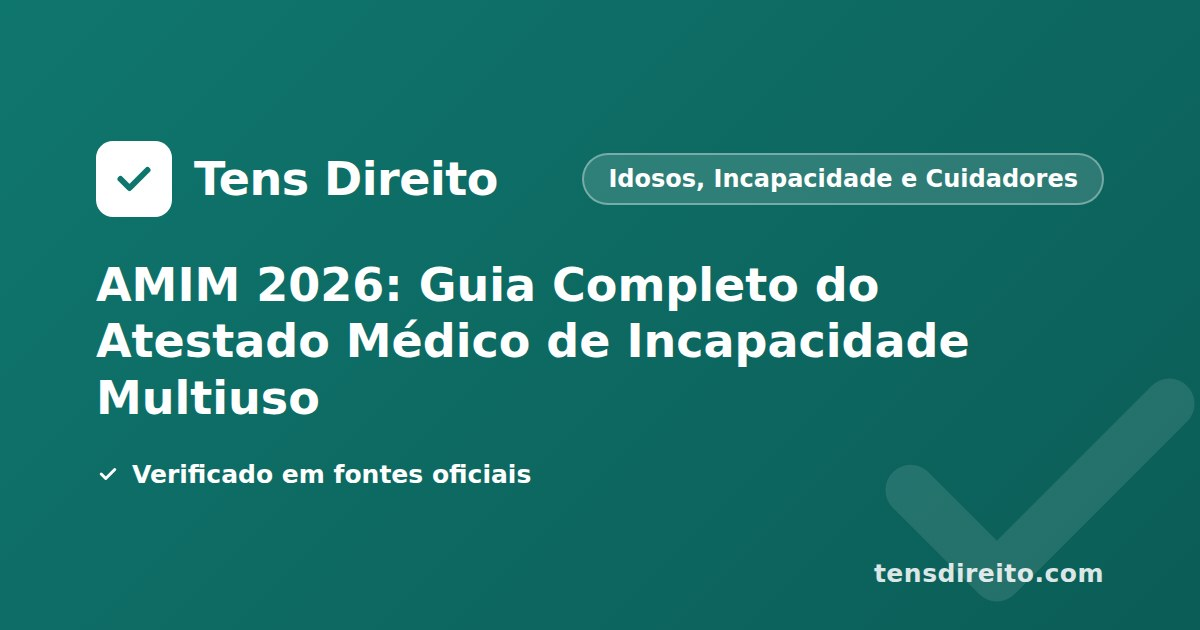
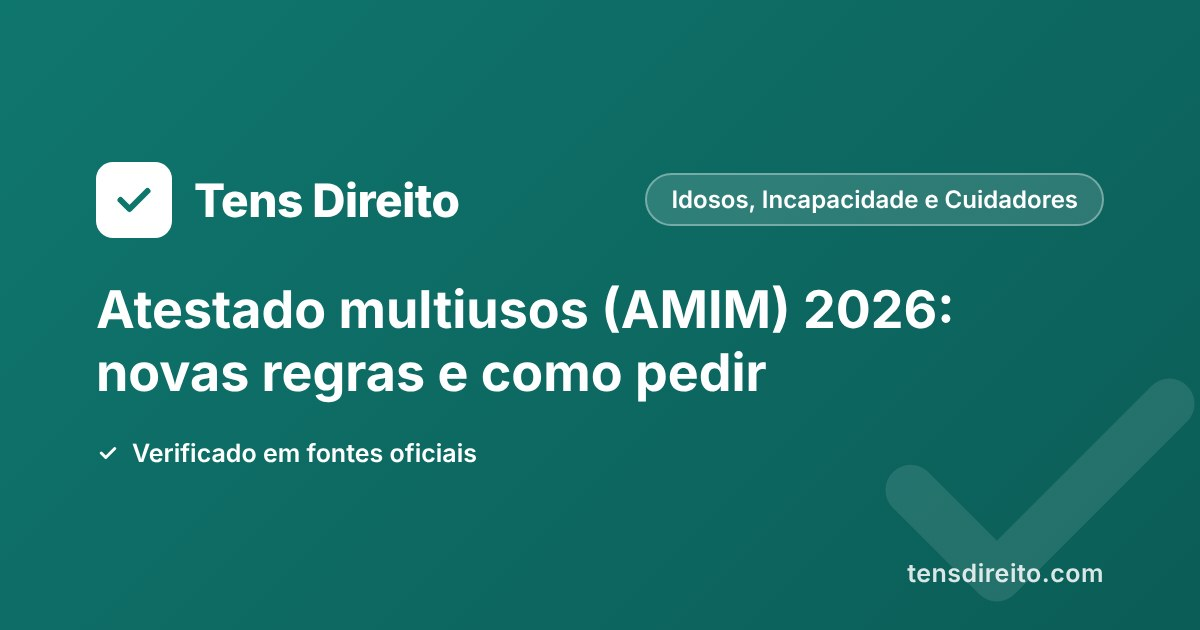
AMIM: "O que mudou em 2026" (Lei n.º 8/2026), FAQ do custo, título novo (#317)
- Secção nova sobre o processo extraordinário de recuperação de pendências
  das juntas médicas (Lei n.º 8/2026), com nota "Verificado a 05/10/2026";
  destaque do resumo passa a "Novidade 2026"; entrada no índice sem número.
- FAQ "Quanto custa?": taxa que varia por tipo de avaliação, com isenções;
  acrescentada também ao FAQPage JSON-LD.
- Title/og:title/headline: "Atestado multiusos (AMIM) 2026: novas regras e
  como pedir"; imagem de partilha regenerada.
- fontes.html: cartão da Lei n.º 8/2026 (carimbo da página inalterado).

Claude-Session: https://claude.ai/code/session_01TGZBWacygevvXvhAV7Yyg9

diff --git a/amim.html b/amim.html
@@ -13,9 +13,9 @@
   <meta name="viewport" content="width=device-width, initial-scale=1.0">
   <meta name="robots" content="index, follow">
   <link rel="sitemap" type="application/xml" href="/sitemap.xml">
-  <title>Atestado Médico de Incapacidade Multiuso (AMIM) 2026: Guia Completo | Tens Direito</title>
+  <title>Atestado multiusos (AMIM) 2026: novas regras e como pedir</title>
   <meta name="description" content="Guia completo e verificado sobre o AMIM em Portugal: quem pode pedir, junta médica, percentagens, o limiar dos 60%, benefícios fiscais (IRS, ISV, IUC, IVA), PSI, quotas de emprego e como recorrer.">
-  <meta property="og:title" content="AMIM 2026: Guia Completo do Atestado Médico de Incapacidade Multiuso">
+  <meta property="og:title" content="Atestado multiusos (AMIM) 2026: novas regras e como pedir">
   <meta property="og:description" content="Como pedir, junta médica, percentagens e benefícios do AMIM em Portugal. Cada facto com fonte oficial datada.">
   <meta property="og:url" content="https://tensdireito.com/amim.html">
   <link rel="canonical" href="https://tensdireito.com/amim.html">
@@ -25,7 +25,7 @@
   <meta property="og:image" content="https://tensdireito.com/assets/img/og/amim.jpg">
   <meta property="og:image:width" content="1200">
   <meta property="og:image:height" content="630">
-  <meta property="og:image:alt" content="AMIM 2026: Guia Completo do Atestado Médico de Incapacidade Multiuso">
+  <meta property="og:image:alt" content="Atestado multiusos (AMIM) 2026: novas regras e como pedir">
   <meta name="twitter:card" content="summary_large_image">
 
   <!-- JSON-LD: BreadcrumbList -->
@@ -83,6 +83,7 @@
       {"@type": "Question", "name": "A partir de que percentagem começam os benefícios?", "acceptedAnswer": {"@type": "Answer", "text": "O limiar legal de referência é 60%. É a partir dos 60% de incapacidade permanente que a lei considera a pessoa como pessoa com deficiência para efeitos da generalidade dos benefícios fiscais, sociais e económicos."}},
       {"@type": "Question", "name": "Posso trabalhar com um AMIM de 60% ou mais?", "acceptedAnswer": {"@type": "Answer", "text": "Sim. O AMIM certifica um grau de incapacidade permanente; não é uma declaração de que não pode trabalhar. Muitas pessoas com AMIM trabalham normalmente e beneficiam ainda de proteções laborais e do sistema de quotas de emprego."}},
       {"@type": "Question", "name": "O AMIM dá isenção de IMT?", "acceptedAnswer": {"@type": "Answer", "text": "Não. Não existe uma isenção geral de IMT associada ao grau de incapacidade. As isenções de IMT dependem de outros critérios (valor do imóvel, primeira habitação, etc.), não do AMIM."}},
+      {"@type": "Question", "name": "Quanto custa?", "acceptedAnswer": {"@type": "Answer", "text": "A emissão do atestado pode ter uma taxa, que varia conforme seja primeira avaliação, recurso ou reavaliação, e há situações de isenção. Confirma o valor na tua unidade de saúde."}},
       {"@type": "Question", "name": "Quanto tempo demora a junta médica?", "acceptedAnswer": {"@type": "Answer", "text": "Os tempos variam muito consoante a região e a pressão sobre o SNS. A desmaterialização do processo, prevista na Portaria n.º 171/2025/1, visa acelerar. Enquanto aguardas, guarda sempre o comprovativo do requerimento."}},
       {"@type": "Question", "name": "Se numa reavaliação o meu grau descer abaixo de 60%, perco tudo?", "acceptedAnswer": {"@type": "Answer", "text": "Nem sempre. Aplica-se o princípio da avaliação mais favorável: se a descida resultar da mesma patologia e das duas avaliações com a mesma Tabela, mantém-se o grau mais favorável para efeitos dos direitos já reconhecidos. Há ainda regimes transitórios em IRS."}}
     ]
@@ -94,7 +95,7 @@
   {
     "@context": "https://schema.org",
     "@type": "Article",
-    "headline": "AMIM 2026: Guia Completo do Atestado Médico de Incapacidade Multiuso",
+    "headline": "Atestado multiusos (AMIM) 2026: novas regras e como pedir",
     "mainEntityOfPage": "https://tensdireito.com/amim.html",
     "author": {"@id": "https://tensdireito.com/sobre.html#nvlabs"},
     "publisher": {"@id": "https://tensdireito.com/sobre.html#nvlabs"},
@@ -293,19 +294,33 @@
 
   <p style="font-size:.88rem;color:#5C6770;margin:1rem 0 1.5rem;">Verificado a 4 de julho de 2026 · Baseado exclusivamente em legislação portuguesa oficial. Este guia é informativo e não substitui aconselhamento jurídico ou médico individual.</p>
 
+  <!-- O QUE MUDOU EM 2026 -->
+  <div class="card" id="mudou-2026">
+    <span class="badge">Novidade</span>
+    <h2>O que mudou em 2026</h2>
+    <p>A <strong>Lei n.º 8/2026, de 25 de fevereiro</strong>, em vigor desde o dia seguinte, criou um processo extraordinário para recuperar os pedidos de junta médica que estão à espera (as pendências). Este processo é feito nas Unidades Locais de Saúde (ULS) e tem duas fases:</p>
+    <ol>
+      <li><strong>Levantamento:</strong> no prazo de 60 dias, são identificados todos os pedidos de avaliação pendentes.</li>
+      <li><strong>Recuperação:</strong> depois, esses pedidos são tratados com recurso a trabalho extraordinário.</li>
+    </ol>
+    <p>A lei <strong>não altera</strong> os critérios de avaliação nem os direitos que o AMIM dá. As regras do processo continuam a ser as da <strong>Portaria n.º 171/2025/1</strong>, de 2025 — incluindo a desmaterialização e a lista de doenças com dispensa de junta médica (ver <a href="#junta">A junta médica</a>).</p>
+    <p class="nota-tabela">Verificado a 05/10/2026 · Fonte: Lei n.º 8/2026, de 25 de fevereiro · <a href="https://diariodarepublica.pt" target="_blank" rel="noopener noreferrer">diariodarepublica.pt</a></p>
+  </div>
+
   <div class="resumo-rapido" role="note" aria-label="Resumo rápido">
     <ul>
       <li>📋 <strong>O que é:</strong> Certifica o grau de incapacidade permanente e serve para vários fins ao mesmo tempo — impostos, apoios sociais, emprego, mobilidade.</li>
       <li>⚖ <strong>Base legal:</strong> Decreto-Lei n.º 202/96, última alteração pelo DL n.º 15/2024. Avaliação segundo a Tabela Nacional de Incapacidades (DL n.º 352/2007).</li>
       <li>📍 <strong>Onde pedir:</strong> Cuidados de saúde primários (centro de saúde) da tua área de residência.</li>
       <li>🔑 <strong>Número que importa:</strong> <strong>60%</strong> — é o limiar a partir do qual se acede à generalidade dos benefícios fiscais, sociais e de emprego.</li>
-      <li>🆕 <strong>Novidade 2025:</strong> Portaria n.º 171/2025/1 desmaterializa o processo e cria lista de patologias com dispensa de junta médica.</li>
+      <li>🆕 <strong>Novidade 2026:</strong> a Lei n.º 8/2026 cria um processo extraordinário para recuperar os pedidos de junta médica em atraso, nas Unidades Locais de Saúde (ULS). Os critérios de avaliação e os direitos do AMIM não mudam.</li>
     </ul>
   </div>
 
   <!-- TOC -->
   <div class="card">
     <strong style="color:#0F172A;">Neste guia</strong>
+    <p style="margin:0.6rem 0 0;font-size:0.95rem;"><a href="#mudou-2026" style="color:#0F766E;">O que mudou em 2026</a></p>
     <ol style="padding-left:1.2rem;margin-top:0.6rem;color:#0F766E;font-size:0.95rem;">
       <li><a href="#o-que-e" style="color:#0F766E;">O que é o AMIM</a></li>
       <li><a href="#quem" style="color:#0F766E;">Quem pode pedir</a></li>
@@ -616,7 +631,7 @@
     </details>
     <details>
       <summary>Quanto custa?</summary>
-      <div class="resposta"><p>O procedimento de avaliação no SNS não tem, em regra, custo para o utente. Confirma junto da tua unidade de saúde.</p></div>
+      <div class="resposta"><p>A emissão do atestado pode ter uma taxa, que varia conforme seja primeira avaliação, recurso ou reavaliação, e há situações de isenção. Confirma o valor na tua unidade de saúde.</p></div>
     </details>
     <details>
       <summary>O que é a PSI?</summary>

diff --git a/fontes.html b/fontes.html
@@ -458,6 +458,12 @@ footer { text-align: center; padding: 2rem; color: #5C6770; font-size: 0.85rem; 
     </div>
     <div class="card">
       <span class="tag">Legislação</span>
+      <h2>Lei n.º 8/2026, de 25 de fevereiro</h2>
+      <p>Cria um processo extraordinário de recuperação dos pedidos de junta médica pendentes (Atestado Médico de Incapacidade Multiuso), nas Unidades Locais de Saúde: levantamento de todos os pedidos pendentes em 60 dias e, depois, recuperação com recurso a trabalho extraordinário. Não altera os critérios de avaliação nem os direitos associados ao atestado. Em vigor desde 26 de fevereiro de 2026.</p>
+      <p><a href="https://diariodarepublica.pt" target="_blank" rel="noopener">diariodarepublica.pt</a></p>
+    </div>
+    <div class="card">
+      <span class="tag">Legislação</span>
       <h2>Lei n.º 36/2026, de 27 de julho</h2>
       <p>Autorização legislativa que permite ao Governo aprovar o decreto-lei da Prestação Social Única (PSU), fixando previamente o sentido e a extensão que esse decreto-lei tem de respeitar.</p>
       <p><a href="https://diariodarepublica.pt" target="_blank" rel="noopener">diariodarepublica.pt</a></p>
